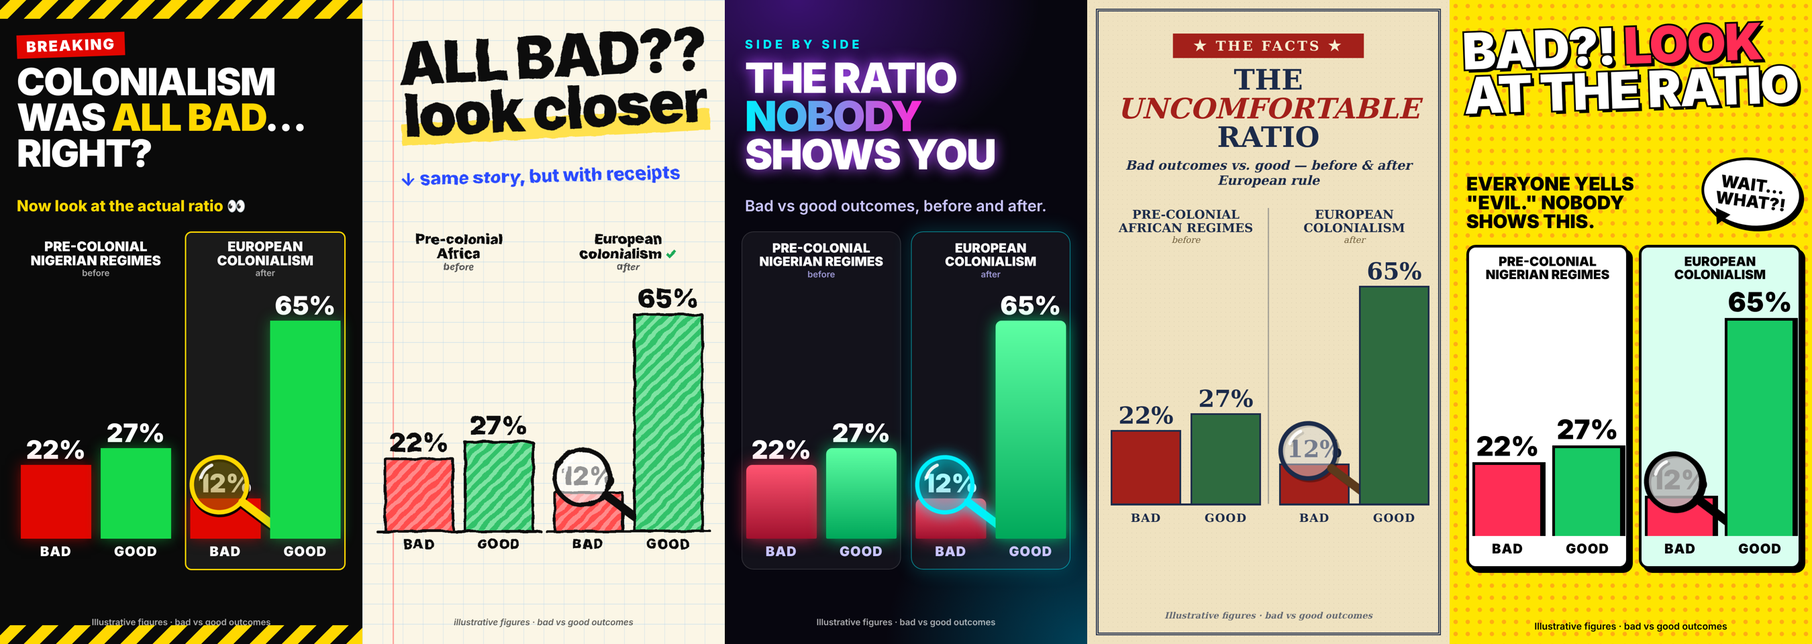
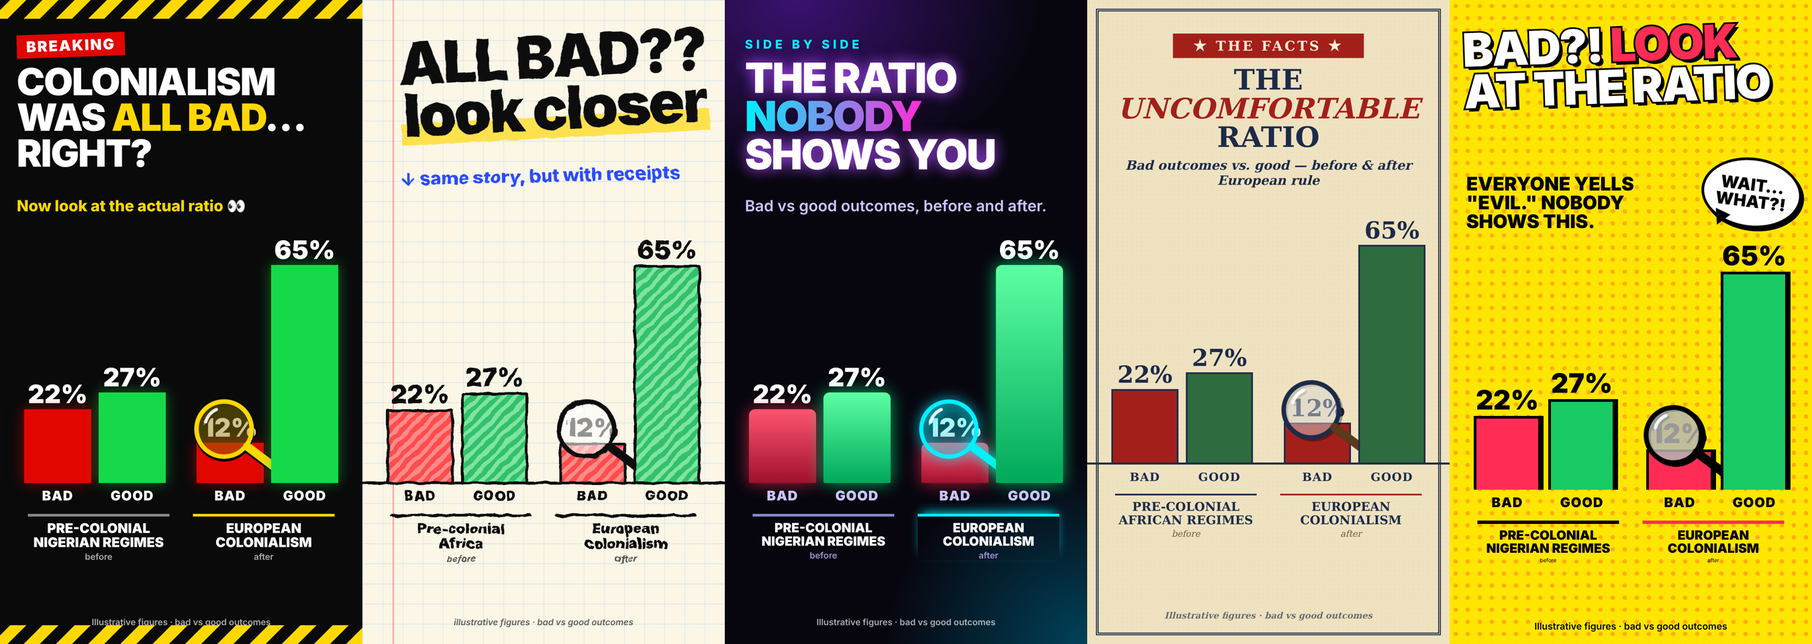
Merge panels into one shared four-bar chart in all five versions
Claude-Session: https://claude.ai/code/session_01Vet8Zrtweyw8aGUYMcxvyG

diff --git a/graphics/src/v5-pop-art-comic.html b/graphics/src/v5-pop-art-comic.html
@@ -1,9 +1,10 @@
 <!doctype html><html><head><meta charset="utf-8"><style>*{box-sizing:border-box;margin:0;padding:0}body{width:1080px;height:1920px;overflow:hidden;font-family:Inter,'Liberation Sans',sans-serif}
 .stage{position:relative;width:1080px;height:1920px;overflow:hidden}
-.chart{position:absolute;left:50px;right:50px;top:690px;display:flex;gap:30px}
-.panel{flex:1;display:flex;flex-direction:column;align-items:center}
-.bars{height:760px;width:100%;display:flex;align-items:flex-end;justify-content:center;gap:28px;position:relative}
-.bw{position:relative;display:flex;flex-direction:column;align-items:center;justify-content:flex-end;width:210px}
+.chart{position:absolute;left:0;right:0;top:680px}
+.bars{height:760px;display:flex;align-items:flex-end;justify-content:center;gap:22px;position:relative}.bw.gap{margin-left:70px}
+.groups{display:flex;justify-content:center;margin-top:92px}.grp{width:422px;text-align:center;border-top:8px solid #888;padding-top:14px}.grp+.grp{margin-left:70px}
+.grp .ptitle{height:auto!important;margin-bottom:6px}.grp .psub{height:auto!important;margin:0!important;display:block!important}
+.bw{position:relative;display:flex;flex-direction:column;align-items:center;justify-content:flex-end;width:200px}
 .bar{width:100%}.val{font-weight:900;font-size:76px;line-height:1;margin-bottom:8px}
 .lab{position:absolute;bottom:-62px;font-weight:900;font-size:40px;letter-spacing:2px}
 .mag{position:absolute;width:290px;height:290px;left:50%;top:50%;margin-left:-125px;transform:translateY(-175px) rotate(-8deg);pointer-events:none}
@@ -15,9 +16,7 @@ h1 em{font-style:normal;color:#ff2d55}
 .burst{position:absolute;right:30px;top:470px;width:300px;height:210px;background:#fff;border:8px solid #000;border-radius:50%;display:flex;align-items:center;justify-content:center;text-align:center;font-weight:900;font-size:50px;line-height:1;transform:rotate(7deg);box-shadow:8px 8px 0 #000}
 .burst:after{content:"";position:absolute;left:30px;bottom:-34px;border:24px solid transparent;border-top:44px solid #000;transform:rotate(18deg)}
 h2{position:absolute;top:520px;left:50px;width:640px;font-weight:900;font-size:56px;line-height:1;color:#000;text-transform:uppercase}
-.chart{top:730px}
-.panel{background:#fff;border:8px solid #000;border-radius:28px;box-shadow:12px 12px 0 #000;padding:22px 10px 90px}
-.panel.eu{background:#d9fff0}
+.chart{top:700px}
 .ptitle{font-weight:900;font-size:38px;text-transform:uppercase;text-align:center;line-height:1.02;height:78px}
 .psub{display:none}
 .bars{height:760px}
@@ -25,19 +24,10 @@ h2{position:absolute;top:520px;left:50px;width:640px;font-weight:900;font-size:5
 .bar{border:8px solid #000;border-bottom:0;box-shadow:8px 0 0 #000}
 .bad .bar{background:#ff2d55}.good .bar{background:#18c964}
 .mag{filter:drop-shadow(6px 6px 0 #000)}
-.foot{color:#000;opacity:1;bottom:36px;font-size:28px}</style></head><body><svg width="0" height="0" style="position:absolute"><filter id="rough"><feTurbulence type="fractalNoise" baseFrequency=".025" numOctaves="2" seed="4"/><feDisplacementMap in="SourceGraphic" scale="9"/></filter></svg><div class="stage"><h1>Bad?! <em>Look</em> at the ratio</h1><h2>Everyone yells "evil." Nobody shows this.</h2><div class="burst">WAIT…<br>WHAT?!</div>
-<div class="chart"><div class="panel pre">
-  <div class="ptitle">Pre-colonial<br>Nigerian regimes</div><div class="psub"></div>
-  <div class="bars">
-    <div class="bw bad"><div class="val">22%</div><div class="bar" style="height:220px"></div><div class="lab">BAD</div></div>
-    <div class="bw good"><div class="val">27%</div><div class="bar" style="height:270px"></div><div class="lab">GOOD</div></div>
-  </div></div><div class="panel eu">
-  <div class="ptitle">European<br>colonialism</div><div class="psub"></div>
-  <div class="bars">
-    <div class="bw bad"><div class="val">12%</div><div class="bar" style="height:120px"></div><svg class="mag" viewBox="0 0 300 300" >
+.foot{color:#000;opacity:1;bottom:36px;font-size:28px}.grp{border-top:10px solid #000}.grp.eu{border-top-color:#ff2d55}</style></head><body><svg width="0" height="0" style="position:absolute"><filter id="rough"><feTurbulence type="fractalNoise" baseFrequency=".025" numOctaves="2" seed="4"/><feDisplacementMap in="SourceGraphic" scale="9"/></filter></svg><div class="stage"><h1>Bad?! <em>Look</em> at the ratio</h1><h2>Everyone yells "evil." Nobody shows this.</h2><div class="burst">WAIT…<br>WHAT?!</div>
+<div class="chart"><div class="bars"><div class="bw bad "><div class="val">22%</div><div class="bar" style="height:220px"></div><div class="lab">BAD</div></div><div class="bw good "><div class="val">27%</div><div class="bar" style="height:270px"></div><div class="lab">GOOD</div></div><div class="bw bad gap"><div class="val">12%</div><div class="bar" style="height:120px"></div><svg class="mag" viewBox="0 0 300 300" >
 <circle cx="115" cy="115" r="85" fill="rgba(255,255,255,.6)" stroke="#000" stroke-width="15"/>
 <path d="M62 85 A60 60 0 0 1 100 52" fill="none" stroke="#fff" stroke-width="10" stroke-linecap="round" opacity=".9"/>
-<line x1="178" y1="178" x2="270" y2="270" stroke="#000" stroke-width="27" stroke-linecap="round"/></svg><div class="lab">BAD</div></div>
-    <div class="bw good"><div class="val">65%</div><div class="bar" style="height:650px"></div><div class="lab">GOOD</div></div>
-  </div></div></div>
+<line x1="178" y1="178" x2="270" y2="270" stroke="#000" stroke-width="27" stroke-linecap="round"/></svg><div class="lab">BAD</div></div><div class="bw good "><div class="val">65%</div><div class="bar" style="height:650px"></div><div class="lab">GOOD</div></div></div>
+<div class="groups"><div class="grp pre"><div class="ptitle">Pre-colonial<br>Nigerian regimes</div><div class="psub">before</div></div><div class="grp eu"><div class="ptitle">European<br>colonialism</div><div class="psub">after</div></div></div></div>
 <div class="foot">Illustrative figures · bad vs good outcomes</div></div></body></html>

diff --git a/graphics/src/v3-neon-ratio.html b/graphics/src/v3-neon-ratio.html
@@ -1,9 +1,10 @@
 <!doctype html><html><head><meta charset="utf-8"><style>*{box-sizing:border-box;margin:0;padding:0}body{width:1080px;height:1920px;overflow:hidden;font-family:Inter,'Liberation Sans',sans-serif}
 .stage{position:relative;width:1080px;height:1920px;overflow:hidden}
-.chart{position:absolute;left:50px;right:50px;top:690px;display:flex;gap:30px}
-.panel{flex:1;display:flex;flex-direction:column;align-items:center}
-.bars{height:760px;width:100%;display:flex;align-items:flex-end;justify-content:center;gap:28px;position:relative}
-.bw{position:relative;display:flex;flex-direction:column;align-items:center;justify-content:flex-end;width:210px}
+.chart{position:absolute;left:0;right:0;top:680px}
+.bars{height:760px;display:flex;align-items:flex-end;justify-content:center;gap:22px;position:relative}.bw.gap{margin-left:70px}
+.groups{display:flex;justify-content:center;margin-top:92px}.grp{width:422px;text-align:center;border-top:8px solid #888;padding-top:14px}.grp+.grp{margin-left:70px}
+.grp .ptitle{height:auto!important;margin-bottom:6px}.grp .psub{height:auto!important;margin:0!important;display:block!important}
+.bw{position:relative;display:flex;flex-direction:column;align-items:center;justify-content:flex-end;width:200px}
 .bar{width:100%}.val{font-weight:900;font-size:76px;line-height:1;margin-bottom:8px}
 .lab{position:absolute;bottom:-62px;font-weight:900;font-size:40px;letter-spacing:2px}
 .mag{position:absolute;width:290px;height:290px;left:50%;top:50%;margin-left:-125px;transform:translateY(-175px) rotate(-8deg);pointer-events:none}
@@ -14,8 +15,6 @@
 h1{position:absolute;top:175px;left:60px;right:60px;font-weight:900;font-size:124px;line-height:.92;letter-spacing:-4px;color:#fff;text-transform:uppercase;text-shadow:0 0 40px #b04dff}
 h1 b{background:linear-gradient(90deg,#00f0ff,#ff2bd6);-webkit-background-clip:text;color:transparent;text-shadow:none}
 h2{position:absolute;top:585px;left:60px;right:60px;font-weight:600;font-size:46px;color:#c9c4ff}
-.panel{background:#ffffff0d;border:2px solid #ffffff24;border-radius:36px;padding:28px 10px 90px;backdrop-filter:blur(6px)}
-.panel.eu{border-color:#00f0ff88;box-shadow:0 0 60px #00f0ff33}
 .ptitle{color:#fff;font-weight:900;font-size:38px;text-align:center;text-transform:uppercase;line-height:1.05;height:82px}
 .psub{color:#9a95d0;font-size:26px;font-weight:600;height:32px;margin-bottom:12px}
 .val{color:#fff}.lab{color:#c9c4ff}
@@ -23,19 +22,10 @@ h2{position:absolute;top:585px;left:60px;right:60px;font-weight:600;font-size:46
 .bad .bar{background:linear-gradient(#ff5470,#a0102d);box-shadow:0 0 50px #ff2d55aa}
 .good .bar{background:linear-gradient(#5dffa3,#00a85a);box-shadow:0 0 50px #00ff88aa}
 .mag{filter:drop-shadow(0 0 18px #00f0ff)}
-.foot{color:#fff}</style></head><body><svg width="0" height="0" style="position:absolute"><filter id="rough"><feTurbulence type="fractalNoise" baseFrequency=".025" numOctaves="2" seed="4"/><feDisplacementMap in="SourceGraphic" scale="9"/></filter></svg><div class="stage"><div class="kick">Side by side</div><h1>The ratio <b>nobody</b> shows you</h1><h2>Bad vs good outcomes, before and after.</h2>
-<div class="chart"><div class="panel pre">
-  <div class="ptitle">Pre-colonial<br>Nigerian regimes</div><div class="psub">before</div>
-  <div class="bars">
-    <div class="bw bad"><div class="val">22%</div><div class="bar" style="height:220px"></div><div class="lab">BAD</div></div>
-    <div class="bw good"><div class="val">27%</div><div class="bar" style="height:270px"></div><div class="lab">GOOD</div></div>
-  </div></div><div class="panel eu">
-  <div class="ptitle">European<br>colonialism</div><div class="psub">after</div>
-  <div class="bars">
-    <div class="bw bad"><div class="val">12%</div><div class="bar" style="height:120px"></div><svg class="mag" viewBox="0 0 300 300" >
+.foot{color:#fff}.grp.eu{border-top-color:#00f0ff;box-shadow:0 -14px 30px -12px #00f0ff}.grp.pre{border-top-color:#8a86c9}</style></head><body><svg width="0" height="0" style="position:absolute"><filter id="rough"><feTurbulence type="fractalNoise" baseFrequency=".025" numOctaves="2" seed="4"/><feDisplacementMap in="SourceGraphic" scale="9"/></filter></svg><div class="stage"><div class="kick">Side by side</div><h1>The ratio <b>nobody</b> shows you</h1><h2>Bad vs good outcomes, before and after.</h2>
+<div class="chart"><div class="bars"><div class="bw bad "><div class="val">22%</div><div class="bar" style="height:220px"></div><div class="lab">BAD</div></div><div class="bw good "><div class="val">27%</div><div class="bar" style="height:270px"></div><div class="lab">GOOD</div></div><div class="bw bad gap"><div class="val">12%</div><div class="bar" style="height:120px"></div><svg class="mag" viewBox="0 0 300 300" >
 <circle cx="115" cy="115" r="85" fill="rgba(0,240,255,.18)" stroke="#00f0ff" stroke-width="13"/>
 <path d="M62 85 A60 60 0 0 1 100 52" fill="none" stroke="#fff" stroke-width="10" stroke-linecap="round" opacity=".9"/>
-<line x1="178" y1="178" x2="270" y2="270" stroke="#00f0ff" stroke-width="25" stroke-linecap="round"/></svg><div class="lab">BAD</div></div>
-    <div class="bw good"><div class="val">65%</div><div class="bar" style="height:650px"></div><div class="lab">GOOD</div></div>
-  </div></div></div>
+<line x1="178" y1="178" x2="270" y2="270" stroke="#00f0ff" stroke-width="25" stroke-linecap="round"/></svg><div class="lab">BAD</div></div><div class="bw good "><div class="val">65%</div><div class="bar" style="height:650px"></div><div class="lab">GOOD</div></div></div>
+<div class="groups"><div class="grp pre"><div class="ptitle">Pre-colonial<br>Nigerian regimes</div><div class="psub">before</div></div><div class="grp eu"><div class="ptitle">European<br>colonialism</div><div class="psub">after</div></div></div></div>
 <div class="foot">Illustrative figures · bad vs good outcomes</div></div></body></html>

diff --git a/graphics/src/v4-vintage-poster.html b/graphics/src/v4-vintage-poster.html
@@ -1,9 +1,10 @@
 <!doctype html><html><head><meta charset="utf-8"><style>*{box-sizing:border-box;margin:0;padding:0}body{width:1080px;height:1920px;overflow:hidden;font-family:Inter,'Liberation Sans',sans-serif}
 .stage{position:relative;width:1080px;height:1920px;overflow:hidden}
-.chart{position:absolute;left:50px;right:50px;top:690px;display:flex;gap:30px}
-.panel{flex:1;display:flex;flex-direction:column;align-items:center}
-.bars{height:760px;width:100%;display:flex;align-items:flex-end;justify-content:center;gap:28px;position:relative}
-.bw{position:relative;display:flex;flex-direction:column;align-items:center;justify-content:flex-end;width:210px}
+.chart{position:absolute;left:0;right:0;top:680px}
+.bars{height:760px;display:flex;align-items:flex-end;justify-content:center;gap:22px;position:relative}.bw.gap{margin-left:70px}
+.groups{display:flex;justify-content:center;margin-top:92px}.grp{width:422px;text-align:center;border-top:8px solid #888;padding-top:14px}.grp+.grp{margin-left:70px}
+.grp .ptitle{height:auto!important;margin-bottom:6px}.grp .psub{height:auto!important;margin:0!important;display:block!important}
+.bw{position:relative;display:flex;flex-direction:column;align-items:center;justify-content:flex-end;width:200px}
 .bar{width:100%}.val{font-weight:900;font-size:76px;line-height:1;margin-bottom:8px}
 .lab{position:absolute;bottom:-62px;font-weight:900;font-size:40px;letter-spacing:2px}
 .mag{position:absolute;width:290px;height:290px;left:50%;top:50%;margin-left:-125px;transform:translateY(-175px) rotate(-8deg);pointer-events:none}
@@ -15,28 +16,18 @@
 h1{position:absolute;top:195px;left:60px;right:60px;text-align:center;font-weight:900;font-size:84px;line-height:1.02;color:#1c2b4a;text-transform:uppercase}
 h1 i{color:#a3201a}
 h2{position:absolute;top:470px;left:60px;right:60px;text-align:center;font-size:38px;font-style:italic;color:#1c2b4a}
-.chart{top:620px;left:70px;right:70px}
+.chart{top:620px}
 .ptitle{font-weight:900;font-size:36px;text-align:center;color:#1c2b4a;text-transform:uppercase;line-height:1.1;height:80px}
 .psub{font-size:26px;font-style:italic;color:#6b5a38;margin-bottom:10px;height:32px}
 .val{color:#1c2b4a;font-size:70px}.lab{color:#1c2b4a;font-size:34px}
 .bar{border:5px solid #1c2b4a;border-bottom:0}
 .bad .bar{background:#a3201a}.good .bar{background:#2e6b3f}
 .bars:after{content:"";position:absolute;left:0;right:0;bottom:-5px;height:6px;background:#1c2b4a}
-.panel.pre{border-right:4px solid #1c2b4a55;padding-right:20px}
 .mag{filter:drop-shadow(5px 6px 0 #00000055)}
-.foot{color:#1c2b4a;font-style:italic;bottom:70px}</style></head><body><svg width="0" height="0" style="position:absolute"><filter id="rough"><feTurbulence type="fractalNoise" baseFrequency=".025" numOctaves="2" seed="4"/><feDisplacementMap in="SourceGraphic" scale="9"/></filter></svg><div class="stage"><div class="frame"></div><div class="rib">★ THE FACTS ★</div><h1>The <i>uncomfortable</i> ratio</h1><h2>Bad outcomes vs. good — before &amp; after European rule</h2>
-<div class="chart"><div class="panel pre">
-  <div class="ptitle">Pre-colonial<br>African regimes</div><div class="psub">before</div>
-  <div class="bars">
-    <div class="bw bad"><div class="val">22%</div><div class="bar" style="height:220px"></div><div class="lab">BAD</div></div>
-    <div class="bw good"><div class="val">27%</div><div class="bar" style="height:270px"></div><div class="lab">GOOD</div></div>
-  </div></div><div class="panel eu">
-  <div class="ptitle">European<br>colonialism</div><div class="psub">after</div>
-  <div class="bars">
-    <div class="bw bad"><div class="val">12%</div><div class="bar" style="height:120px"></div><svg class="mag" viewBox="0 0 300 300" >
+.foot{color:#1c2b4a;font-style:italic;bottom:70px}.grp{border-top:5px solid #1c2b4a}.grp.eu{border-top-color:#a3201a}</style></head><body><svg width="0" height="0" style="position:absolute"><filter id="rough"><feTurbulence type="fractalNoise" baseFrequency=".025" numOctaves="2" seed="4"/><feDisplacementMap in="SourceGraphic" scale="9"/></filter></svg><div class="stage"><div class="frame"></div><div class="rib">★ THE FACTS ★</div><h1>The <i>uncomfortable</i> ratio</h1><h2>Bad outcomes vs. good — before &amp; after European rule</h2>
+<div class="chart"><div class="bars"><div class="bw bad "><div class="val">22%</div><div class="bar" style="height:220px"></div><div class="lab">BAD</div></div><div class="bw good "><div class="val">27%</div><div class="bar" style="height:270px"></div><div class="lab">GOOD</div></div><div class="bw bad gap"><div class="val">12%</div><div class="bar" style="height:120px"></div><svg class="mag" viewBox="0 0 300 300" >
 <circle cx="115" cy="115" r="85" fill="rgba(255,255,255,.4)" stroke="#1c2b4a" stroke-width="14"/>
 <path d="M62 85 A60 60 0 0 1 100 52" fill="none" stroke="#fff" stroke-width="10" stroke-linecap="round" opacity=".9"/>
-<line x1="178" y1="178" x2="270" y2="270" stroke="#5b3a1c" stroke-width="26" stroke-linecap="round"/></svg><div class="lab">BAD</div></div>
-    <div class="bw good"><div class="val">65%</div><div class="bar" style="height:650px"></div><div class="lab">GOOD</div></div>
-  </div></div></div>
+<line x1="178" y1="178" x2="270" y2="270" stroke="#5b3a1c" stroke-width="26" stroke-linecap="round"/></svg><div class="lab">BAD</div></div><div class="bw good "><div class="val">65%</div><div class="bar" style="height:650px"></div><div class="lab">GOOD</div></div></div>
+<div class="groups"><div class="grp pre"><div class="ptitle">Pre-colonial<br>African regimes</div><div class="psub">before</div></div><div class="grp eu"><div class="ptitle">European<br>colonialism</div><div class="psub">after</div></div></div></div>
 <div class="foot">Illustrative figures · bad vs good outcomes</div></div></body></html>

diff --git a/graphics/src/v2-doodle-notebook.html b/graphics/src/v2-doodle-notebook.html
@@ -1,9 +1,10 @@
 <!doctype html><html><head><meta charset="utf-8"><style>*{box-sizing:border-box;margin:0;padding:0}body{width:1080px;height:1920px;overflow:hidden;font-family:Inter,'Liberation Sans',sans-serif}
 .stage{position:relative;width:1080px;height:1920px;overflow:hidden}
-.chart{position:absolute;left:50px;right:50px;top:690px;display:flex;gap:30px}
-.panel{flex:1;display:flex;flex-direction:column;align-items:center}
-.bars{height:760px;width:100%;display:flex;align-items:flex-end;justify-content:center;gap:28px;position:relative}
-.bw{position:relative;display:flex;flex-direction:column;align-items:center;justify-content:flex-end;width:210px}
+.chart{position:absolute;left:0;right:0;top:680px}
+.bars{height:760px;display:flex;align-items:flex-end;justify-content:center;gap:22px;position:relative}.bw.gap{margin-left:70px}
+.groups{display:flex;justify-content:center;margin-top:92px}.grp{width:422px;text-align:center;border-top:8px solid #888;padding-top:14px}.grp+.grp{margin-left:70px}
+.grp .ptitle{height:auto!important;margin-bottom:6px}.grp .psub{height:auto!important;margin:0!important;display:block!important}
+.bw{position:relative;display:flex;flex-direction:column;align-items:center;justify-content:flex-end;width:200px}
 .bar{width:100%}.val{font-weight:900;font-size:76px;line-height:1;margin-bottom:8px}
 .lab{position:absolute;bottom:-62px;font-weight:900;font-size:40px;letter-spacing:2px}
 .mag{position:absolute;width:290px;height:290px;left:50%;top:50%;margin-left:-125px;transform:translateY(-175px) rotate(-8deg);pointer-events:none}
@@ -22,21 +23,11 @@ h2{position:absolute;top:490px;left:110px;right:60px;font-weight:800;font-size:5
 .bad .bar{background:repeating-linear-gradient(-45deg,#ff4d4d 0 14px,#ff8a8a 14px 26px)}
 .good .bar{background:repeating-linear-gradient(-45deg,#33c26b 0 14px,#7fe3a3 14px 26px)}
 .bars:after{content:"";position:absolute;left:-10px;right:-10px;bottom:-4px;height:8px;background:#111;border-radius:4px}
-.panel.eu .ptitle:after{content:" ✓";color:#1faa59}
 .arrow{position:absolute;right:70px;top:1500px;font-weight:900;font-size:52px;color:#e0262b;transform:rotate(-6deg);filter:url(#rough);text-align:center;line-height:1.05}
-.foot{color:#111;font-style:italic}</style></head><body><svg width="0" height="0" style="position:absolute"><filter id="rough"><feTurbulence type="fractalNoise" baseFrequency=".025" numOctaves="2" seed="4"/><feDisplacementMap in="SourceGraphic" scale="9"/></filter></svg><div class="stage"><h1>ALL BAD?? <span>look closer</span></h1><h2>↓ same story, but with receipts</h2>
-<div class="chart"><div class="panel pre">
-  <div class="ptitle">Pre-colonial<br>Africa</div><div class="psub">before</div>
-  <div class="bars">
-    <div class="bw bad"><div class="val">22%</div><div class="bar" style="height:220px"></div><div class="lab">BAD</div></div>
-    <div class="bw good"><div class="val">27%</div><div class="bar" style="height:270px"></div><div class="lab">GOOD</div></div>
-  </div></div><div class="panel eu">
-  <div class="ptitle">European<br>colonialism</div><div class="psub">after</div>
-  <div class="bars">
-    <div class="bw bad"><div class="val">12%</div><div class="bar" style="height:120px"></div><svg class="mag" viewBox="0 0 300 300" filter="url(#rough)">
+.foot{color:#111;font-style:italic}.grp{border-top:8px solid #111;border-radius:6px;filter:url(#rough)}</style></head><body><svg width="0" height="0" style="position:absolute"><filter id="rough"><feTurbulence type="fractalNoise" baseFrequency=".025" numOctaves="2" seed="4"/><feDisplacementMap in="SourceGraphic" scale="9"/></filter></svg><div class="stage"><h1>ALL BAD?? <span>look closer</span></h1><h2>↓ same story, but with receipts</h2>
+<div class="chart"><div class="bars"><div class="bw bad "><div class="val">22%</div><div class="bar" style="height:220px"></div><div class="lab">BAD</div></div><div class="bw good "><div class="val">27%</div><div class="bar" style="height:270px"></div><div class="lab">GOOD</div></div><div class="bw bad gap"><div class="val">12%</div><div class="bar" style="height:120px"></div><svg class="mag" viewBox="0 0 300 300" filter="url(#rough)">
 <circle cx="115" cy="115" r="85" fill="rgba(255,255,255,.55)" stroke="#111" stroke-width="14"/>
 <path d="M62 85 A60 60 0 0 1 100 52" fill="none" stroke="#fff" stroke-width="10" stroke-linecap="round" opacity=".9"/>
-<line x1="178" y1="178" x2="270" y2="270" stroke="#111" stroke-width="26" stroke-linecap="round"/></svg><div class="lab">BAD</div></div>
-    <div class="bw good"><div class="val">65%</div><div class="bar" style="height:650px"></div><div class="lab">GOOD</div></div>
-  </div></div></div>
+<line x1="178" y1="178" x2="270" y2="270" stroke="#111" stroke-width="26" stroke-linecap="round"/></svg><div class="lab">BAD</div></div><div class="bw good "><div class="val">65%</div><div class="bar" style="height:650px"></div><div class="lab">GOOD</div></div></div>
+<div class="groups"><div class="grp pre"><div class="ptitle">Pre-colonial<br>Africa</div><div class="psub">before</div></div><div class="grp eu"><div class="ptitle">European<br>colonialism</div><div class="psub">after</div></div></div></div>
 <div class="foot">illustrative figures · bad vs good outcomes</div></div></body></html>

diff --git a/graphics/src/v1-breaking-tabloid.html b/graphics/src/v1-breaking-tabloid.html
@@ -1,9 +1,10 @@
 <!doctype html><html><head><meta charset="utf-8"><style>*{box-sizing:border-box;margin:0;padding:0}body{width:1080px;height:1920px;overflow:hidden;font-family:Inter,'Liberation Sans',sans-serif}
 .stage{position:relative;width:1080px;height:1920px;overflow:hidden}
-.chart{position:absolute;left:50px;right:50px;top:690px;display:flex;gap:30px}
-.panel{flex:1;display:flex;flex-direction:column;align-items:center}
-.bars{height:760px;width:100%;display:flex;align-items:flex-end;justify-content:center;gap:28px;position:relative}
-.bw{position:relative;display:flex;flex-direction:column;align-items:center;justify-content:flex-end;width:210px}
+.chart{position:absolute;left:0;right:0;top:680px}
+.bars{height:760px;display:flex;align-items:flex-end;justify-content:center;gap:22px;position:relative}.bw.gap{margin-left:70px}
+.groups{display:flex;justify-content:center;margin-top:92px}.grp{width:422px;text-align:center;border-top:8px solid #888;padding-top:14px}.grp+.grp{margin-left:70px}
+.grp .ptitle{height:auto!important;margin-bottom:6px}.grp .psub{height:auto!important;margin:0!important;display:block!important}
+.bw{position:relative;display:flex;flex-direction:column;align-items:center;justify-content:flex-end;width:200px}
 .bar{width:100%}.val{font-weight:900;font-size:76px;line-height:1;margin-bottom:8px}
 .lab{position:absolute;bottom:-62px;font-weight:900;font-size:40px;letter-spacing:2px}
 .mag{position:absolute;width:290px;height:290px;left:50%;top:50%;margin-left:-125px;transform:translateY(-175px) rotate(-8deg);pointer-events:none}
@@ -19,23 +20,12 @@ h2{position:absolute;top:585px;left:50px;right:50px;color:#ffd800;font-weight:80
 .psub{color:#aaa;font-size:26px;font-weight:600;margin-bottom:16px;height:32px}
 .val{color:#fff}.lab{color:#fff}
 .bad .bar{background:#e10600;box-shadow:0 0 40px #e1060088}.good .bar{background:#16d94a;box-shadow:0 0 40px #16d94a77}
-.panel.eu{background:#1a1a1a;border:4px solid #ffd800;border-radius:20px;padding:20px 8px 90px}
-.panel.pre{padding:24px 8px 90px}
 .mag{filter:drop-shadow(0 8px 0 #000)}
-.foot{color:#fff}</style></head><body><svg width="0" height="0" style="position:absolute"><filter id="rough"><feTurbulence type="fractalNoise" baseFrequency=".025" numOctaves="2" seed="4"/><feDisplacementMap in="SourceGraphic" scale="9"/></filter></svg><div class="stage"><div class="haz" style="top:0"></div><div class="tag">BREAKING</div>
+.foot{color:#fff}.grp.eu{border-top-color:#ffd800}.grp .ptitle{color:#fff}</style></head><body><svg width="0" height="0" style="position:absolute"><filter id="rough"><feTurbulence type="fractalNoise" baseFrequency=".025" numOctaves="2" seed="4"/><feDisplacementMap in="SourceGraphic" scale="9"/></filter></svg><div class="stage"><div class="haz" style="top:0"></div><div class="tag">BREAKING</div>
 <h1>Colonialism was <em>all bad</em>… right?</h1><h2>Now look at the actual ratio 👀</h2>
-<div class="chart"><div class="panel pre">
-  <div class="ptitle">Pre-colonial<br>Nigerian regimes</div><div class="psub">before</div>
-  <div class="bars">
-    <div class="bw bad"><div class="val">22%</div><div class="bar" style="height:220px"></div><div class="lab">BAD</div></div>
-    <div class="bw good"><div class="val">27%</div><div class="bar" style="height:270px"></div><div class="lab">GOOD</div></div>
-  </div></div><div class="panel eu">
-  <div class="ptitle">European<br>colonialism</div><div class="psub">after</div>
-  <div class="bars">
-    <div class="bw bad"><div class="val">12%</div><div class="bar" style="height:120px"></div><svg class="mag" viewBox="0 0 300 300" >
+<div class="chart"><div class="bars"><div class="bw bad "><div class="val">22%</div><div class="bar" style="height:220px"></div><div class="lab">BAD</div></div><div class="bw good "><div class="val">27%</div><div class="bar" style="height:270px"></div><div class="lab">GOOD</div></div><div class="bw bad gap"><div class="val">12%</div><div class="bar" style="height:120px"></div><svg class="mag" viewBox="0 0 300 300" >
 <circle cx="115" cy="115" r="85" fill="rgba(255,216,0,.25)" stroke="#ffd800" stroke-width="14"/>
 <path d="M62 85 A60 60 0 0 1 100 52" fill="none" stroke="#fff" stroke-width="10" stroke-linecap="round" opacity=".9"/>
-<line x1="178" y1="178" x2="270" y2="270" stroke="#ffd800" stroke-width="26" stroke-linecap="round"/></svg><div class="lab">BAD</div></div>
-    <div class="bw good"><div class="val">65%</div><div class="bar" style="height:650px"></div><div class="lab">GOOD</div></div>
-  </div></div></div>
+<line x1="178" y1="178" x2="270" y2="270" stroke="#ffd800" stroke-width="26" stroke-linecap="round"/></svg><div class="lab">BAD</div></div><div class="bw good "><div class="val">65%</div><div class="bar" style="height:650px"></div><div class="lab">GOOD</div></div></div>
+<div class="groups"><div class="grp pre"><div class="ptitle">Pre-colonial<br>Nigerian regimes</div><div class="psub">before</div></div><div class="grp eu"><div class="ptitle">European<br>colonialism</div><div class="psub">after</div></div></div></div>
 <div class="foot">Illustrative figures · bad vs good outcomes</div><div class="haz" style="bottom:0"></div></div></body></html>

diff --git a/graphics/src/build.py b/graphics/src/build.py
@@ -17,14 +17,21 @@ def panel(title, sub, bad, good, extra_cls="", magsvg="", tag=""):
     <div class="bw good"><div class="val">{good}%</div><div class="bar" style="height:{good*S}px"></div><div class="lab">GOOD</div></div>
   </div></div>'''
 
+def chart(pre, eu, magsvg):
+    def bw(kind, val, extra="", m=""):
+        return f'<div class="bw {kind} {extra}"><div class="val">{val}%</div><div class="bar" style="height:{val*S}px"></div>{m}<div class="lab">{kind.upper()}</div></div>'
+    return f'''<div class="chart"><div class="bars">{bw("bad",22)}{bw("good",27)}{bw("bad",12,"gap",magsvg)}{bw("good",65)}</div>
+<div class="groups"><div class="grp pre"><div class="ptitle">{pre}</div><div class="psub">before</div></div><div class="grp eu"><div class="ptitle">{eu}</div><div class="psub">after</div></div></div></div>'''
+
 DEFS = '''<svg width="0" height="0" style="position:absolute"><filter id="rough"><feTurbulence type="fractalNoise" baseFrequency=".025" numOctaves="2" seed="4"/><feDisplacementMap in="SourceGraphic" scale="9"/></filter></svg>'''
 
 BASE = '''*{box-sizing:border-box;margin:0;padding:0}body{width:1080px;height:1920px;overflow:hidden;font-family:Inter,'Liberation Sans',sans-serif}
 .stage{position:relative;width:1080px;height:1920px;overflow:hidden}
-.chart{position:absolute;left:50px;right:50px;top:690px;display:flex;gap:30px}
-.panel{flex:1;display:flex;flex-direction:column;align-items:center}
-.bars{height:760px;width:100%;display:flex;align-items:flex-end;justify-content:center;gap:28px;position:relative}
-.bw{position:relative;display:flex;flex-direction:column;align-items:center;justify-content:flex-end;width:210px}
+.chart{position:absolute;left:0;right:0;top:680px}
+.bars{height:760px;display:flex;align-items:flex-end;justify-content:center;gap:22px;position:relative}.bw.gap{margin-left:70px}
+.groups{display:flex;justify-content:center;margin-top:92px}.grp{width:422px;text-align:center;border-top:8px solid #888;padding-top:14px}.grp+.grp{margin-left:70px}
+.grp .ptitle{height:auto!important;margin-bottom:6px}.grp .psub{height:auto!important;margin:0!important;display:block!important}
+.bw{position:relative;display:flex;flex-direction:column;align-items:center;justify-content:flex-end;width:200px}
 .bar{width:100%}.val{font-weight:900;font-size:76px;line-height:1;margin-bottom:8px}
 .lab{position:absolute;bottom:-62px;font-weight:900;font-size:40px;letter-spacing:2px}
 .mag{position:absolute;width:290px;height:290px;left:50%;top:50%;margin-left:-125px;transform:translateY(-175px) rotate(-8deg);pointer-events:none}
@@ -47,13 +54,11 @@ h2{position:absolute;top:585px;left:50px;right:50px;color:#ffd800;font-weight:80
 .psub{color:#aaa;font-size:26px;font-weight:600;margin-bottom:16px;height:32px}
 .val{color:#fff}.lab{color:#fff}
 .bad .bar{background:#e10600;box-shadow:0 0 40px #e1060088}.good .bar{background:#16d94a;box-shadow:0 0 40px #16d94a77}
-.panel.eu{background:#1a1a1a;border:4px solid #ffd800;border-radius:20px;padding:20px 8px 90px}
-.panel.pre{padding:24px 8px 90px}
 .mag{filter:drop-shadow(0 8px 0 #000)}
-.foot{color:#fff}'''
+.foot{color:#fff}.grp.eu{border-top-color:#ffd800}.grp .ptitle{color:#fff}'''
 body = f'''<div class="haz" style="top:0"></div><div class="tag">BREAKING</div>
 <h1>Colonialism was <em>all bad</em>… right?</h1><h2>Now look at the actual ratio 👀</h2>
-<div class="chart">{panel("Pre-colonial<br>Nigerian regimes","before",22,27,"pre")}{panel("European<br>colonialism","after",12,65,"eu",mag("#ffd800","rgba(255,216,0,.25)",14,False,"#ffd800"))}</div>
+{chart("Pre-colonial<br>Nigerian regimes","European<br>colonialism",mag("#ffd800","rgba(255,216,0,.25)",14,False,"#ffd800"))}
 <div class="foot">Illustrative figures · bad vs good outcomes</div><div class="haz" style="bottom:0"></div>'''
 page("v1-breaking-tabloid", css, body)
 
@@ -71,11 +76,10 @@ h2{position:absolute;top:490px;left:110px;right:60px;font-weight:800;font-size:5
 .bad .bar{background:repeating-linear-gradient(-45deg,#ff4d4d 0 14px,#ff8a8a 14px 26px)}
 .good .bar{background:repeating-linear-gradient(-45deg,#33c26b 0 14px,#7fe3a3 14px 26px)}
 .bars:after{content:"";position:absolute;left:-10px;right:-10px;bottom:-4px;height:8px;background:#111;border-radius:4px}
-.panel.eu .ptitle:after{content:" ✓";color:#1faa59}
 .arrow{position:absolute;right:70px;top:1500px;font-weight:900;font-size:52px;color:#e0262b;transform:rotate(-6deg);filter:url(#rough);text-align:center;line-height:1.05}
-.foot{color:#111;font-style:italic}'''
+.foot{color:#111;font-style:italic}.grp{border-top:8px solid #111;border-radius:6px;filter:url(#rough)}'''
 body = f'''<h1>ALL BAD?? <span>look closer</span></h1><h2>↓ same story, but with receipts</h2>
-<div class="chart">{panel("Pre-colonial<br>Africa","before",22,27,"pre")}{panel("European<br>colonialism","after",12,65,"eu",mag("#111","rgba(255,255,255,.55)",14,True,"#111"))}</div>
+{chart("Pre-colonial<br>Africa","European<br>colonialism",mag("#111","rgba(255,255,255,.55)",14,True,"#111"))}
 <div class="foot">illustrative figures · bad vs good outcomes</div>'''
 page("v2-doodle-notebook", css, body)
 
@@ -85,8 +89,6 @@ css = '''.stage{background:radial-gradient(1200px 900px at 20% 0%,#3a1170 0%,tra
 h1{position:absolute;top:175px;left:60px;right:60px;font-weight:900;font-size:124px;line-height:.92;letter-spacing:-4px;color:#fff;text-transform:uppercase;text-shadow:0 0 40px #b04dff}
 h1 b{background:linear-gradient(90deg,#00f0ff,#ff2bd6);-webkit-background-clip:text;color:transparent;text-shadow:none}
 h2{position:absolute;top:585px;left:60px;right:60px;font-weight:600;font-size:46px;color:#c9c4ff}
-.panel{background:#ffffff0d;border:2px solid #ffffff24;border-radius:36px;padding:28px 10px 90px;backdrop-filter:blur(6px)}
-.panel.eu{border-color:#00f0ff88;box-shadow:0 0 60px #00f0ff33}
 .ptitle{color:#fff;font-weight:900;font-size:38px;text-align:center;text-transform:uppercase;line-height:1.05;height:82px}
 .psub{color:#9a95d0;font-size:26px;font-weight:600;height:32px;margin-bottom:12px}
 .val{color:#fff}.lab{color:#c9c4ff}
@@ -94,9 +96,9 @@ h2{position:absolute;top:585px;left:60px;right:60px;font-weight:600;font-size:46
 .bad .bar{background:linear-gradient(#ff5470,#a0102d);box-shadow:0 0 50px #ff2d55aa}
 .good .bar{background:linear-gradient(#5dffa3,#00a85a);box-shadow:0 0 50px #00ff88aa}
 .mag{filter:drop-shadow(0 0 18px #00f0ff)}
-.foot{color:#fff}'''
+.foot{color:#fff}.grp.eu{border-top-color:#00f0ff;box-shadow:0 -14px 30px -12px #00f0ff}.grp.pre{border-top-color:#8a86c9}'''
 body = f'''<div class="kick">Side by side</div><h1>The ratio <b>nobody</b> shows you</h1><h2>Bad vs good outcomes, before and after.</h2>
-<div class="chart">{panel("Pre-colonial<br>Nigerian regimes","before",22,27,"pre")}{panel("European<br>colonialism","after",12,65,"eu",mag("#00f0ff","rgba(0,240,255,.18)",13,False,"#00f0ff"))}</div>
+{chart("Pre-colonial<br>Nigerian regimes","European<br>colonialism",mag("#00f0ff","rgba(0,240,255,.18)",13,False,"#00f0ff"))}
 <div class="foot">Illustrative figures · bad vs good outcomes</div>'''
 page("v3-neon-ratio", css, body)
 
@@ -107,18 +109,17 @@ css = '''.stage{background:#efe2c0;background-image:radial-gradient(#00000012 1.
 h1{position:absolute;top:195px;left:60px;right:60px;text-align:center;font-weight:900;font-size:84px;line-height:1.02;color:#1c2b4a;text-transform:uppercase}
 h1 i{color:#a3201a}
 h2{position:absolute;top:470px;left:60px;right:60px;text-align:center;font-size:38px;font-style:italic;color:#1c2b4a}
-.chart{top:620px;left:70px;right:70px}
+.chart{top:620px}
 .ptitle{font-weight:900;font-size:36px;text-align:center;color:#1c2b4a;text-transform:uppercase;line-height:1.1;height:80px}
 .psub{font-size:26px;font-style:italic;color:#6b5a38;margin-bottom:10px;height:32px}
 .val{color:#1c2b4a;font-size:70px}.lab{color:#1c2b4a;font-size:34px}
 .bar{border:5px solid #1c2b4a;border-bottom:0}
 .bad .bar{background:#a3201a}.good .bar{background:#2e6b3f}
 .bars:after{content:"";position:absolute;left:0;right:0;bottom:-5px;height:6px;background:#1c2b4a}
-.panel.pre{border-right:4px solid #1c2b4a55;padding-right:20px}
 .mag{filter:drop-shadow(5px 6px 0 #00000055)}
-.foot{color:#1c2b4a;font-style:italic;bottom:70px}'''
+.foot{color:#1c2b4a;font-style:italic;bottom:70px}.grp{border-top:5px solid #1c2b4a}.grp.eu{border-top-color:#a3201a}'''
 body = f'''<div class="frame"></div><div class="rib">★ THE FACTS ★</div><h1>The <i>uncomfortable</i> ratio</h1><h2>Bad outcomes vs. good — before &amp; after European rule</h2>
-<div class="chart">{panel("Pre-colonial<br>African regimes","before",22,27,"pre")}{panel("European<br>colonialism","after",12,65,"eu",mag("#1c2b4a","rgba(255,255,255,.4)",14,False,"#5b3a1c"))}</div>
+{chart("Pre-colonial<br>African regimes","European<br>colonialism",mag("#1c2b4a","rgba(255,255,255,.4)",14,False,"#5b3a1c"))}
 <div class="foot">Illustrative figures · bad vs good outcomes</div>'''
 page("v4-vintage-poster", css, body)
 
@@ -129,9 +130,7 @@ h1 em{font-style:normal;color:#ff2d55}
 .burst{position:absolute;right:30px;top:470px;width:300px;height:210px;background:#fff;border:8px solid #000;border-radius:50%;display:flex;align-items:center;justify-content:center;text-align:center;font-weight:900;font-size:50px;line-height:1;transform:rotate(7deg);box-shadow:8px 8px 0 #000}
 .burst:after{content:"";position:absolute;left:30px;bottom:-34px;border:24px solid transparent;border-top:44px solid #000;transform:rotate(18deg)}
 h2{position:absolute;top:520px;left:50px;width:640px;font-weight:900;font-size:56px;line-height:1;color:#000;text-transform:uppercase}
-.chart{top:730px}
-.panel{background:#fff;border:8px solid #000;border-radius:28px;box-shadow:12px 12px 0 #000;padding:22px 10px 90px}
-.panel.eu{background:#d9fff0}
+.chart{top:700px}
 .ptitle{font-weight:900;font-size:38px;text-transform:uppercase;text-align:center;line-height:1.02;height:78px}
 .psub{display:none}
 .bars{height:760px}
@@ -139,8 +138,8 @@ h2{position:absolute;top:520px;left:50px;width:640px;font-weight:900;font-size:5
 .bar{border:8px solid #000;border-bottom:0;box-shadow:8px 0 0 #000}
 .bad .bar{background:#ff2d55}.good .bar{background:#18c964}
 .mag{filter:drop-shadow(6px 6px 0 #000)}
-.foot{color:#000;opacity:1;bottom:36px;font-size:28px}'''
+.foot{color:#000;opacity:1;bottom:36px;font-size:28px}.grp{border-top:10px solid #000}.grp.eu{border-top-color:#ff2d55}'''
 body = f'''<h1>Bad?! <em>Look</em> at the ratio</h1><h2>Everyone yells "evil." Nobody shows this.</h2><div class="burst">WAIT…<br>WHAT?!</div>
-<div class="chart">{panel("Pre-colonial<br>Nigerian regimes","",22,27,"pre")}{panel("European<br>colonialism","",12,65,"eu",mag("#000","rgba(255,255,255,.6)",15,False,"#000"))}</div>
+{chart("Pre-colonial<br>Nigerian regimes","European<br>colonialism",mag("#000","rgba(255,255,255,.6)",15,False,"#000"))}
 <div class="foot">Illustrative figures · bad vs good outcomes</div>'''
 page("v5-pop-art-comic", css, body)
